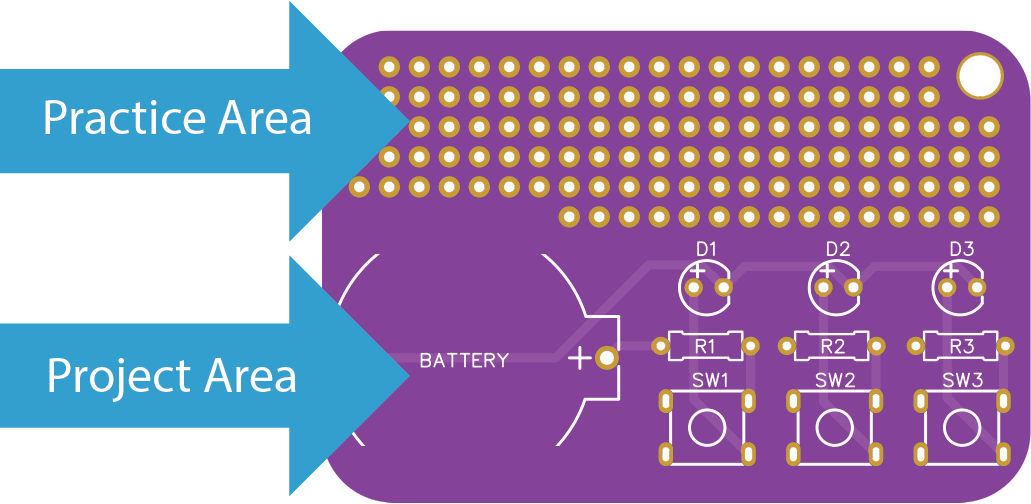
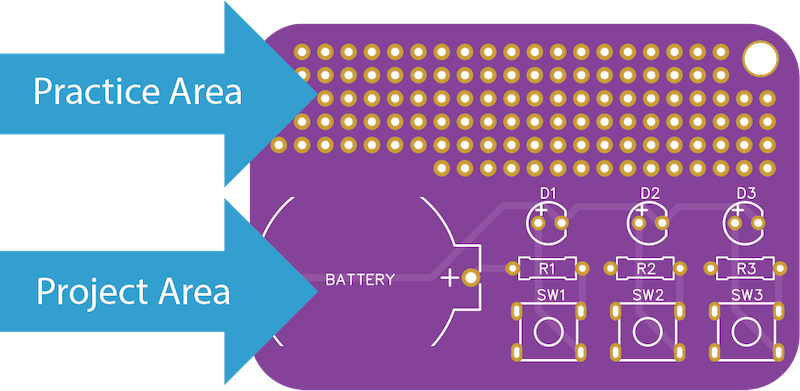
WIP

diff --git a/pages/practice/how_to_solder/bad_joints.html b/pages/practice/how_to_solder/bad_joints.html
@@ -1,0 +1,105 @@
+<div class="table-responsive-md">
+  <table class="solder-joint-table table table-sm table-hover table-small-text">
+    <thead>
+      <tr>
+        <th scope="col">
+          &nbsp;
+        </th>
+        <th scope="col">
+          Problem
+        </th>
+        <th scope="col">
+          Solution
+        </th>
+      </tr>
+    </thead>
+    <tbody>
+      <tr>
+        <td>
+          <img src="/img/practice/solder-joint-good.png" alt="Good solder joint" />
+        </td>
+        <td>
+          None. This looks great!
+        </td>
+        <td>
+          &nbsp;
+        </td>
+      </tr>
+      <tr>
+        <td>
+          <img src="/img/practice/solder-joint-bad-bond1.png" class="double" alt="Bad solder joint: Did not bond to the pad" />
+        </td>
+        <td>
+          Solder bonded to the lead, but not the pad
+        </td>
+        <td>
+          Reflow the joint by applying heat until you see the solder flow both up the lead and across the pad.
+          Make sure you <strong>heat the pad <em>and</em> the lead</strong>.
+        </td>
+      </tr>
+      <tr>
+        <td>
+          <img src="/img/practice/solder-joint-bad-bond2.png" alt="Bad solder joint: Did not bond to the lead" />
+        </td>
+        <td>
+          Solder bonded to the pad, but not the lead. Notice solder doesn't curve toward the lead, but instead curves outward. There may or may not be a gap.
+        </td>
+        <td>
+          Reflow the joint by applying heat until you see the solder flow both up the lead and across the pad.
+          Make sure you <strong>heat the pad <em>and</em> the lead</strong>.
+        </td>
+      </tr>
+      <tr>
+        <td>
+          <img src="/img/practice/solder-joint-not-enough-solder.png" alt="Bad solder joint: Not enough solder" />
+        </td>
+        <td>
+          Not enough solder
+        </td>
+        <td>
+          Reheat the joint and push more solder into it
+        </td>
+      </tr>
+      <tr>
+        <td>
+          <img src="/img/practice/solder-joint-too-much-solder.png" alt="Bad solder joint: Too much solder" />
+        </td>
+        <td>
+          Too much solder
+        </td>
+        <td>
+          This isn't necessarily a problem, but sometimes it masks the issue shown above where the solder bonded to the lead but not the pad.
+          <br>
+          <br>
+To be safe, clean your soldering iron tip really well and reheat the joint. This will do two things: 1. ensure you flow the solder over the PCB pad, and 2. pull some of the solder off the joint onto your tip
+        </td>
+      </tr>
+      <tr>
+        <td>
+          <img src="/img/practice/solder-joint-bridge.png" alt="Bad solder joint: Solder bridge" />
+        </td>
+        <td>
+          Solder bridge: solder has connected two pads, sometimes by bridging the pads themselves, or sometimes by bridging the two adjacent leads
+        </td>
+        <td>
+          Clean your iron tip really well and reheat the solder between the two pads. Let solder flow onto your iron. If it doesn't disconnect on the first try, clean the tip and try again. It may take a few tries, each time pulling a bit more solder off the joint.
+          <br>
+          <br>
+If you have any flux paste, it will help (optional).
+          <br>
+          <br>
+Alternatively you can use desoldering tools like a pump or a braid, but these are almost never necessary.
+        </td>
+      </tr>
+    </tbody>
+  </table>
+</div>
+
+<div>
+[% WRAPPER "callout.html" type="danger" heading="IMPORTANT" %]
+<strong>Learn to recognize</strong> good and bad solder joints, and <strong>learn to feel the resistance</strong> when pushing solder into a joint that isn't hot enough.
+
+Try pushing solder into a joint immediately as you apply heat, and feel for when it starts to flow.
+[% END %]
+</div>
+

diff --git a/scss/custom.scss b/scss/custom.scss
@@ -144,6 +144,9 @@ figure,li {
   .float-md-img, .float-md {
     float: right;
   }
+  .float-md-img-left, .float-md-left {
+    float: left;
+  }
 }
 
 @media (min-width: 992px) {
@@ -152,6 +155,9 @@ figure,li {
   }
   .float-lg-img, .float-lg {
     float: right;
+  }
+  .float-lg-img-left, .float-lg-left {
+    float: left;
   }
 }
 
@@ -171,5 +177,16 @@ figure,li {
 .table tbody th {
   border-right-color: $theme-text-color-primary;
   border-right-width: 1px;
+}
+
+.solder-joint-table img {
+  max-height: 80px;
+  max-width: 77px;
+}
+.solder-joint-table img.double {
+  max-height: 140px;
+}
+.solder-joint-table tbody>tr>:nth-child(2) {
+  padding-right: 0.5rem;
 }
 

diff --git a/pages/practice/how_to_solder/step_by_step.md b/pages/practice/how_to_solder/step_by_step.md
@@ -1,0 +1,72 @@
+<div class="float-md ms-3 mb-3" style="max-width: 350px;">
+[% WRAPPER "callout.html" type="danger" heading="Read Carefully" %]
+This page contains the most important information in this book. If there's one page to read carefully, it's this one.
+[% END %]
+</div>
+
+Now it's time to actually start soldering!
+
+## Step 1: Clean and Tin Your Tip
+
+In order to get a proper bond, both the component lead and the PCB pad need to be heated, and **the only good way to transfer the heat is with a well-tinned soldering iron tip** that's wet with solder. 
+
+So take a moment now to clean and [tin your tip](/practice/preparing_to_solder/tinning.html) again, and add a bit more solder.
+
+## Step 2: Heat Joint
+
+<div class="columns" markdown="1">
+
+**Touch the pad and resistor**: Press the tip against the resistor lead and the pad on the PCB. Use a bit of pressure, but don't strain yourself. If you find the PCB moves too easily, look for something to secure it. I like to use a blu-tack putty, but get creative and use whatever you can find.
+
+<img src="/img/practice/soldering1.png" class="img-fluid" style="max-height: 110px;" alt="Soldering: Apply heat" />
+
+**Transfer heat: Add a bit of solder** between the tip and the component if it's not already fairly wet. This little bit of solder will act as a bridge to let the heat flow from the iron's tip to the pad and the component.
+
+<img src="/img/practice/soldering2.png" class="img-fluid" style="max-height: 110px;" alt="Soldering: wet joint" />
+
+</div>
+
+[% WRAPPER "callout.html" type="note" heading="TIME CHECK" %]
+At this point **no more than 1-2 seconds** should have passed with heat applied. If it's been longer, remove the iron and let the PCB and resistor cool. Take this opportunity to clean and tin your tip again
+[% END %]
+
+## Step 3: Apply Solder
+
+<div class="columns" markdown="1">
+
+**Start adding solder** from the other side.
+
+<img src="/img/practice/soldering3.png" class="img-fluid" style="max-height: 110px;" alt="Soldering: push solder into the joint" />
+
+**If you feel any resistance**, or the solder isn't being pulled across the pad and up lead, it's not hot enough. Reassess and make sure you have wet solder on the tip, and that it's touching both the pad and the component. If so, let it heat for up to 1 or 2 more seconds to see if the resistance disappears. Otherwise try cleaning your tip, tinning it again, then going back to the first step.
+
+If there's no resistance and the solder is flowing, **keep pushing solder** into the join until you have a concave dome as shown here. Notice how the solder has completely covered the pad and has been drawn up the lead.
+
+<img src="/img/practice/soldering4.png" class="img-fluid" style="max-height: 110px;" alt="A good solder joint with a concave dome" />
+
+</div>
+
+[% WRAPPER "callout.html" type="note" heading="TIME CHECK" %]
+**2-4 seconds** should have passed since you first applied heat.
+
+If you're taking longer than 4 seconds, STOP. Let the solder and component cool, then reapply heat and finish your joint
+[% END %]
+
+## Step 4: Cool and Check
+
+<div class="columns" markdown="1">
+
+**Don't let anything move** while the solder joint cools (3-6 seconds).
+
+If the resistor's lead moves while it's cooling, the solder won't properly bond to it and you'll have what's called a "disturbed" or "cold joint" that doesn't conduct electricity properly.  Luckily this is easily fixed by reheating the solder and "reflowing" the joint.
+
+To check your joint, first make sure it has a nice concave dome shape. It should be smooth and relatively shiny.  If it's not, again try reheating the joint to reflow it.
+
+Look at the other side of the board and you should see a little bit of solder coming through the hole. If you don't, you may not have enough solder. Heat up the joint and push a bit more solder into it.
+
+</div>
+
+## Step 5: Clean and Tin Your Tip (again!)
+
+Clean and [tin the tip](/practice/preparing_to_solder/tinning.html) again before you set it down. If you're going to be leaving your soldering iron for a while, **add extra solder** to the tip to keep it protected from oxidation.
+

diff --git a/pages/practice/preparing_to_solder/tinning.md b/pages/practice/preparing_to_solder/tinning.md
@@ -1,5 +1,7 @@
 <div class="columns" markdown="1">
 
+<img class="img-fluid float-start" style="max-width: 100px" src="/img/practice/soldering-tin.png" alt="Tinning the tip of a soldering iron" />
+
 You need to **keep a thin layer of solder on your tip** at all times. Without it you won't be able to transfer heat to your solder joint.
 
 As soon as your soldering iron heats up, the tip is going to tend to oxidize. When this happens it won't accept solder. To clean it off, **wipe it against your damp sponge. Now immediately apply solder** to the tip.
@@ -7,6 +9,11 @@ As soon as your soldering iron heats up, the tip is going to tend to oxidize. Wh
 Once your tip has a nice layer of solder flowed across it, it is tinned! This is one of the most important things to ensure success. You want to keep your tip tinned at all times. This will help dramatically increase its useful lifetime, too.
 
 ## Troubleshooting
+
+<figure class="figure text-center">
+  <img class="figure-img img-fluid" style="max-width: 190px" src="/img/practice/soldering-tin-problem.png" />
+  <figcaption class="figure-caption">Problem: The solder balls up and doesn't flow across the tip</figcaption>
+</figure>
 
 If the solder still doesn't flow over the tip and leave it with a coating, **clean it again**. If after several times you're not making any progress, it may be time to **replace the tip**.
 

diff --git a/pages/practice/how_to_solder/common_mistakes.md b/pages/practice/how_to_solder/common_mistakes.md
@@ -1,0 +1,9 @@
+<div class="columns" markdown="1">
+
+**Don't burn the pad off the PCB**! Unlike most bad solder joints, this cannot be easily fixed. Apply heat for no more than a few seconds. If your joint isn't forming well, back off and let it cool before trying again. Too much heat can damage the PCB and cause the copper pad to lift off, disconnecting your component from the rest of the circuit. We'll talk a bit more about this in the When Things Go Wrong section.
+
+**Don't transfer solder with the tip**! Sometimes people try to apply solder to the iron, then from the iron to the joint. The problem with this is that the flux in the solder will have already burnt off by the time you try to transfer the solder. The flux is critical for getting a good joint because it removes layers of oxidation that would otherwise prevent a good bond. Instead you push solder into the heated joint directly using the solder wire, allowing the flux to activate where you need it.
+
+**Don't let the joint move** while cooling! This was mentioned before, but is worth repeating. The solder will not bond properly to the metal if it moves while cooling, leaving you with an unreliable connection. If you think it may have moved while cooling, reheat the joint to reflow it.
+
+</div>

diff --git a/pages/practice/how_to_solder/quick_overview.md b/pages/practice/how_to_solder/quick_overview.md
@@ -1,0 +1,13 @@
+<img class="img-fluid float-start mx-3 " style="max-width: 80px" src="/img/practice/resistor-bent.png" alt="Bend the resistor legs" />
+
+1) **Bend the leads (or legs) at a right angle** to the body of the resistor. Put the leads through the holes in the practice area of the board.
+ 
+2) Flip the board over and **bend the leads outward slightly**. This will hold the resistor in place while you solder.
+
+3) **Heat both the component lead and the PCB pad simultaneously, then melt solder** (and the flux in its core) into the joint, bonding the three metals together. We'll go through step in greater detail on the next page.
+
+4) And finally **hold the leads** and use your cutters to **snip the excess free**. Cut the lead, not the solder.  If you don't hold them while cutting they will fly and create a dangerous safety hazard, particularly for your eyes.
+
+Keep these clippings for additional solder practice!
+
+<img class="img-fluid" src="/img/practice/soldering-steps-overview.png" />

diff --git a/pages/practice/how_to_solder/index.md b/pages/practice/how_to_solder/index.md
@@ -1,0 +1,5 @@
+## Practice Board
+
+**Set aside 3 resistors** for the LED flashlight project, then use the remaining 10 resistors to practice soldering in the practice area.
+
+<img src="/img/practice/practice-pcb-areas.png" class="img-fluid" alt="PRACTICE and PROJECT areas of the Soldering Practice Kit" />
